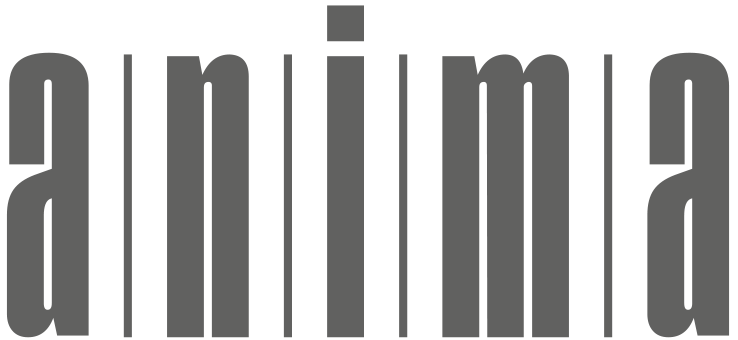
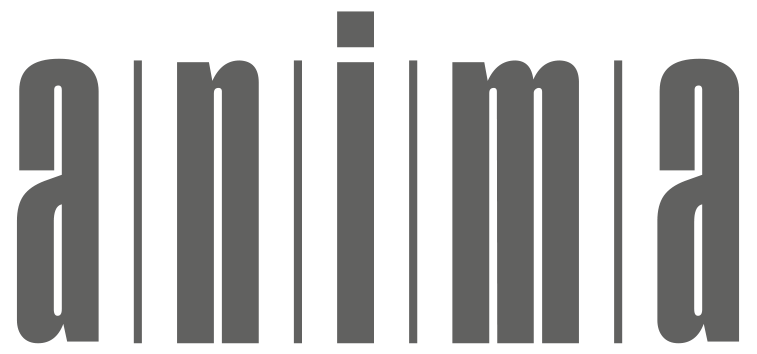
form

diff --git a/index.html b/index.html
@@ -88,9 +88,9 @@
         <img class="background_img" id="sfondo-intermezzo" src="img/esterno.jpg"></img>
     </div>
     <div class="section menu">
-        <div class="colonna">
+        <div class="colonna" id="anima">
             <h1>
-                <img style="height: 1.5em; width: auto; margin: 0;" src="img/anima.png"><br><div class="corsivo" style="color: #d5b037;">by Fontanaricafè</div>
+                <img style="height: 3em; width: auto; margin: 0;" src="img/anima.png"><br><div class="corsivo" style="color: #d5b037;">by Fontanaricafè</div>
             </h1>
             <p>Esclusività del locale, ricercatezza della proposta culinaria, musica e dj set, per rendere il tuo evento unico.</p>
     </div>

diff --git a/style.css b/style.css
@@ -306,6 +306,16 @@ a:hover {
     margin-left: 5%;
 }
 
+#anima{
+    display: flex;
+    justify-content: center;
+    flex-direction: column;
+}
+
+#anima h1{
+    width: 100% !important;
+}
+
 .colonne {
     display: flex;
     flex-flow: row wrap;
